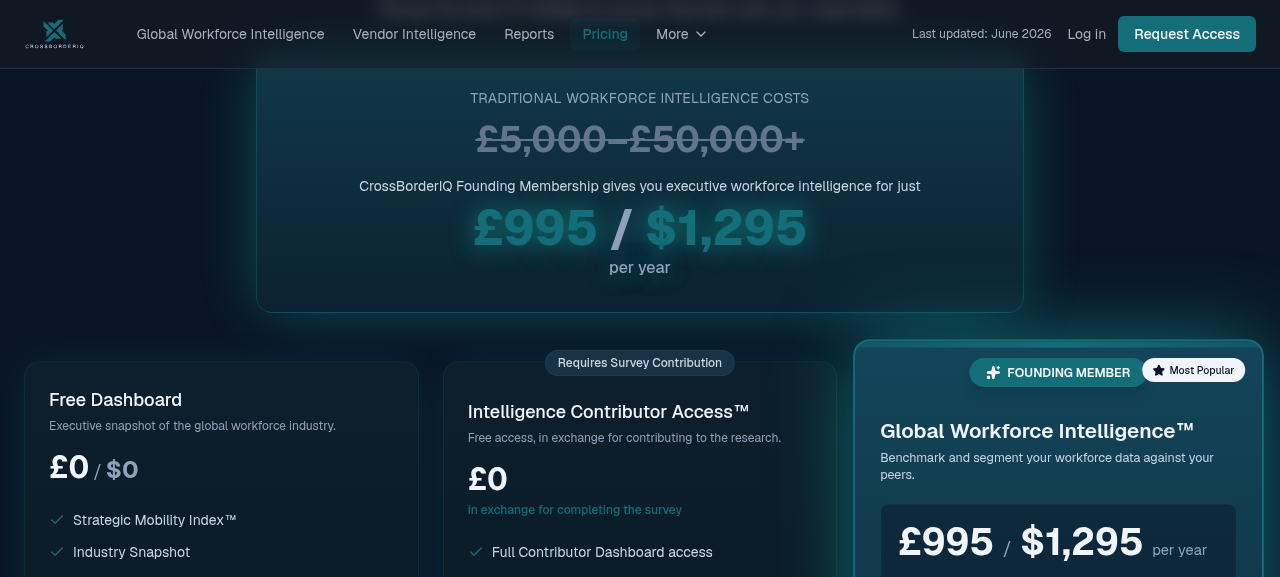
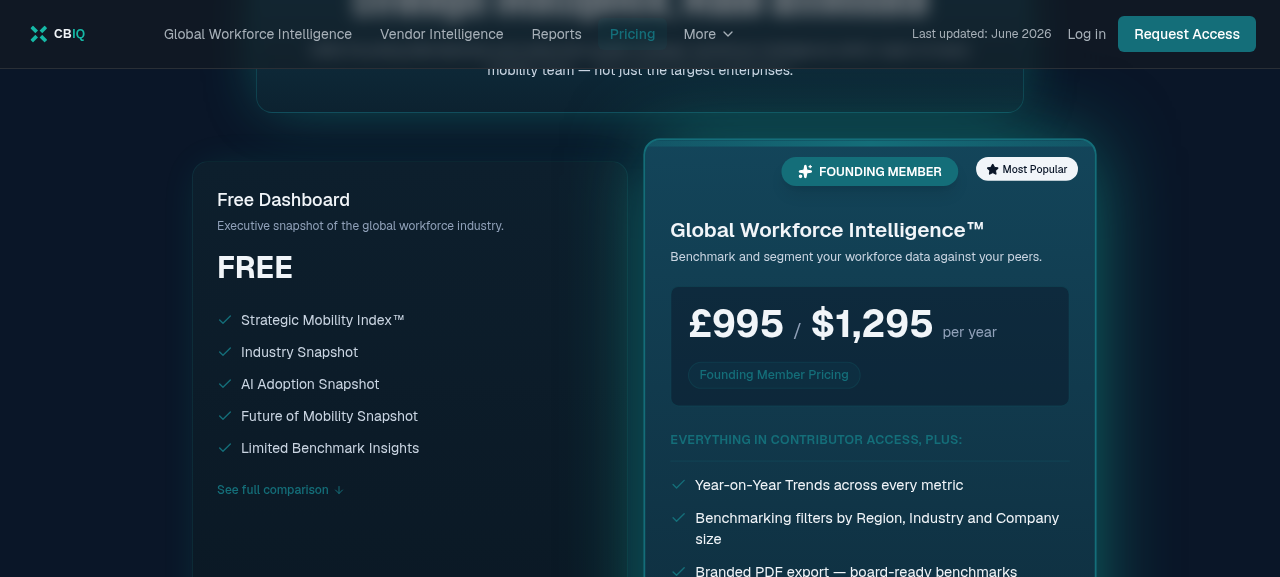
feat: refactor pricing page layout and remove contributor access section

diff --git a/app/pricing/page.tsx b/app/pricing/page.tsx
@@ -3,7 +3,7 @@
 import { useState, useEffect } from "react"
 import { GlobalNav } from "@/components/global-nav"
 import { GlobalFooter } from "@/components/global-footer"
-import { Check, X, Star, Users, Building2, Sparkles, Loader2, ArrowDown, AlertCircle, ChevronDown } from "lucide-react"
+import { Check, X, Star, Users, Building2, Sparkles, Loader2, ArrowDown, AlertCircle } from "lucide-react"
 import { Button } from "@/components/ui/button"
 import Link from "next/link"
 import { globalWorkforceIntelligencePlan } from "@/lib/plans"
@@ -21,7 +21,6 @@ export default function PricingPage() {
   const [loadingPlan, setLoadingPlan] = useState<string | null>(null)
   const [view, setView] = useState<PathView>("corporate")
   const [actionError, setActionError] = useState<string | null>(null)
-  const [contributorAccessOpen, setContributorAccessOpen] = useState(false)
 
   const { user, tier, loading: authLoading } = useAuth()
 
@@ -205,7 +204,7 @@ export default function PricingPage() {
               </div>
             </div>
 
-            <div className="grid grid-cols-1 lg:grid-cols-3 gap-6 items-stretch mb-12">
+            <div className="grid grid-cols-1 lg:grid-cols-2 gap-6 items-stretch mb-12 max-w-4xl mx-auto">
               {/* Card 1: Free Dashboard */}
               <div className="flex flex-col rounded-2xl border border-primary/20 bg-gradient-to-b from-brand-navy-2 to-brand-navy-3 p-6 shadow-[0_0_40px_-12px_rgb(var(--brand-teal-rgb)_/_0.2)]">
                 <div className="mb-6">
@@ -244,90 +243,7 @@ export default function PricingPage() {
                 </div>
               </div>
 
-              {/* Card 2: Intelligence Contributor Access */}
-              <div className="flex flex-col rounded-2xl border border-primary/20 bg-gradient-to-b from-brand-navy-2 to-brand-navy-3 p-6 relative shadow-[0_0_40px_-12px_rgb(var(--brand-teal-rgb)_/_0.2)]">
-                <div className="absolute -top-3 left-1/2 -translate-x-1/2">
-                  <span className="inline-flex items-center text-xs font-medium bg-[#1a3344] text-slate-300 px-3 py-1 rounded-full border border-primary/20 whitespace-nowrap">
-                    Requires Survey Contribution
-                  </span>
-                </div>
-                <div className="mb-6 pt-3">
-                  <h3 className="text-lg font-medium text-slate-100 mb-1">Intelligence Contributor Access™</h3>
-                  <p className="text-xs text-slate-400 mb-4">
-                    Free access, in exchange for contributing to the research.
-                  </p>
-                  <div className="flex items-baseline gap-2">
-                    <span className="text-3xl font-bold text-slate-100">FREE</span>
-                  </div>
-                  <p className="text-xs text-primary font-medium mt-1">in exchange for completing the survey</p>
-                </div>
-                <ul className="space-y-3 mb-6">
-                  {[
-                    "Full Contributor Dashboard access",
-                    "Complete breakdown across all 7 intelligence pillars",
-                    "Question-by-question response data, continuously updated",
-                    "Aggregated, anonymised benchmarks",
-                    "3 months' access per contribution — renew any time",
-                    "Full report library — including members-only reports",
-                  ].map((feature, i) => (
-                    <li key={i} className="flex items-start gap-2 text-sm text-slate-300">
-                      <Check className="h-4 w-4 text-primary shrink-0 mt-0.5" />
-                      <span>{feature}</span>
-                    </li>
-                  ))}
-                </ul>
-                <button
-                  type="button"
-                  onClick={scrollToComparison}
-                  className="inline-flex items-center gap-1 text-xs font-medium text-primary hover:underline mb-6"
-                >
-                  See full comparison
-                  <ArrowDown className="h-3 w-3" />
-                </button>
-                <div className="mt-auto">
-                  <Button className="w-full bg-primary hover:bg-primary/90" asChild>
-                    <Link href="/contributor-dashboard">Get Contributor Access</Link>
-                  </Button>
-                </div>
-
-                <div className="mt-4 border-t border-primary/20 pt-4">
-                  <button
-                    type="button"
-                    onClick={() => setContributorAccessOpen((open) => !open)}
-                    aria-expanded={contributorAccessOpen}
-                    className="flex w-full items-center justify-between gap-2 text-left text-sm font-medium text-slate-100 hover:text-primary transition-colors"
-                  >
-                    <span>How do I get access?</span>
-                    <ChevronDown
-                      className={`h-4 w-4 shrink-0 text-primary transition-transform duration-200 ${contributorAccessOpen ? "rotate-180" : ""}`}
-                    />
-                  </button>
-                  {contributorAccessOpen && (
-                    <div className="mt-4 space-y-4">
-                      <ol className="space-y-3">
-                        {[
-                          "Create a free account.",
-                          "Complete the Global Workforce Deployment survey (about 10–15 minutes).",
-                          "Instantly unlock your Contributor dashboard.",
-                        ].map((step, i) => (
-                          <li key={i} className="flex items-start gap-3 text-sm text-slate-300">
-                            <span className="flex h-6 w-6 shrink-0 items-center justify-center rounded-full bg-primary/15 text-xs font-semibold text-primary">
-                              {i + 1}
-                            </span>
-                            <span className="pt-0.5">{step}</span>
-                          </li>
-                        ))}
-                      </ol>
-                      <p className="text-xs leading-relaxed text-slate-400">
-                        Each contribution gives you 3 months&apos; access — re-take the survey any time to renew. Your
-                        responses are always anonymised and aggregated, and never identify your organisation.
-                      </p>
-                    </div>
-                  )}
-                </div>
-              </div>
-
-              {/* Card 3: Global Workforce Intelligence - HERO / FOUNDING MEMBER */}
+              {/* Card 2: Global Workforce Intelligence - HERO / FOUNDING MEMBER */}
               <div
                 id="global-workforce-intelligence"
                 className="flex flex-col rounded-2xl border-2 border-primary bg-gradient-to-b from-[#13455a] to-[#0c2433] p-6 pt-8 relative shadow-[0_0_80px_-8px_rgb(var(--brand-teal-rgb)_/_0.6)] scroll-mt-24 overflow-hidden lg:scale-[1.04] lg:-my-2 z-10"
@@ -422,6 +338,16 @@ export default function PricingPage() {
                     </p>
                   )}
 
+                  {/* Secondary path: earn Premium free via the survey */}
+                  <p className="text-center mt-3">
+                    <Link
+                      href="/contributor-dashboard"
+                      className="text-xs text-slate-400 hover:text-primary underline underline-offset-2 transition-colors"
+                    >
+                      Or unlock 14 days of Premium free — complete the survey
+                    </Link>
+                  </p>
+
                   {/* Scarcity Statement */}
                   <p className="text-xs text-center text-slate-400 mt-4 italic leading-relaxed">
                     Founding Member pricing is available for a limited time and will increase as additional intelligence datasets, benchmarking studies and premium reports are released.
@@ -438,7 +364,6 @@ export default function PricingPage() {
                   <thead>
                     <tr className="border-b border-primary/20">
                       <th className="text-left p-4 text-sm font-medium text-slate-100">Feature</th>
-                      <th className="text-center p-4 text-sm font-medium text-slate-100">Intelligence Contributor Access</th>
                       <th className="text-center p-4 text-sm font-medium text-primary">Global Workforce Intelligence</th>
                     </tr>
                   </thead>
@@ -457,13 +382,6 @@ export default function PricingPage() {
                       <tr key={i} className="hover:bg-brand-navy/40 transition-colors">
                         <td className="p-4 text-sm text-slate-300">{row.feature}</td>
                         <td className="p-4 text-center">
-                          {row.contributor ? (
-                            <Check className="h-5 w-5 text-primary mx-auto" />
-                          ) : (
-                            <X className="h-5 w-5 text-slate-600 mx-auto" />
-                          )}
-                        </td>
-                        <td className="p-4 text-center">
                           {row.membership ? (
                             <Check className="h-5 w-5 text-primary mx-auto" />
                           ) : (
@@ -475,7 +393,6 @@ export default function PricingPage() {
                     {/* Access duration row with text instead of checkmarks */}
                     <tr className="hover:bg-brand-navy/40 transition-colors">
                       <td className="p-4 text-sm text-slate-300">Access duration</td>
-                      <td className="p-4 text-center text-xs text-slate-400">3 months per contribution (renewable)</td>
                       <td className="p-4 text-center text-xs text-primary font-medium">Continuous while subscribed</td>
                     </tr>
                   </tbody>